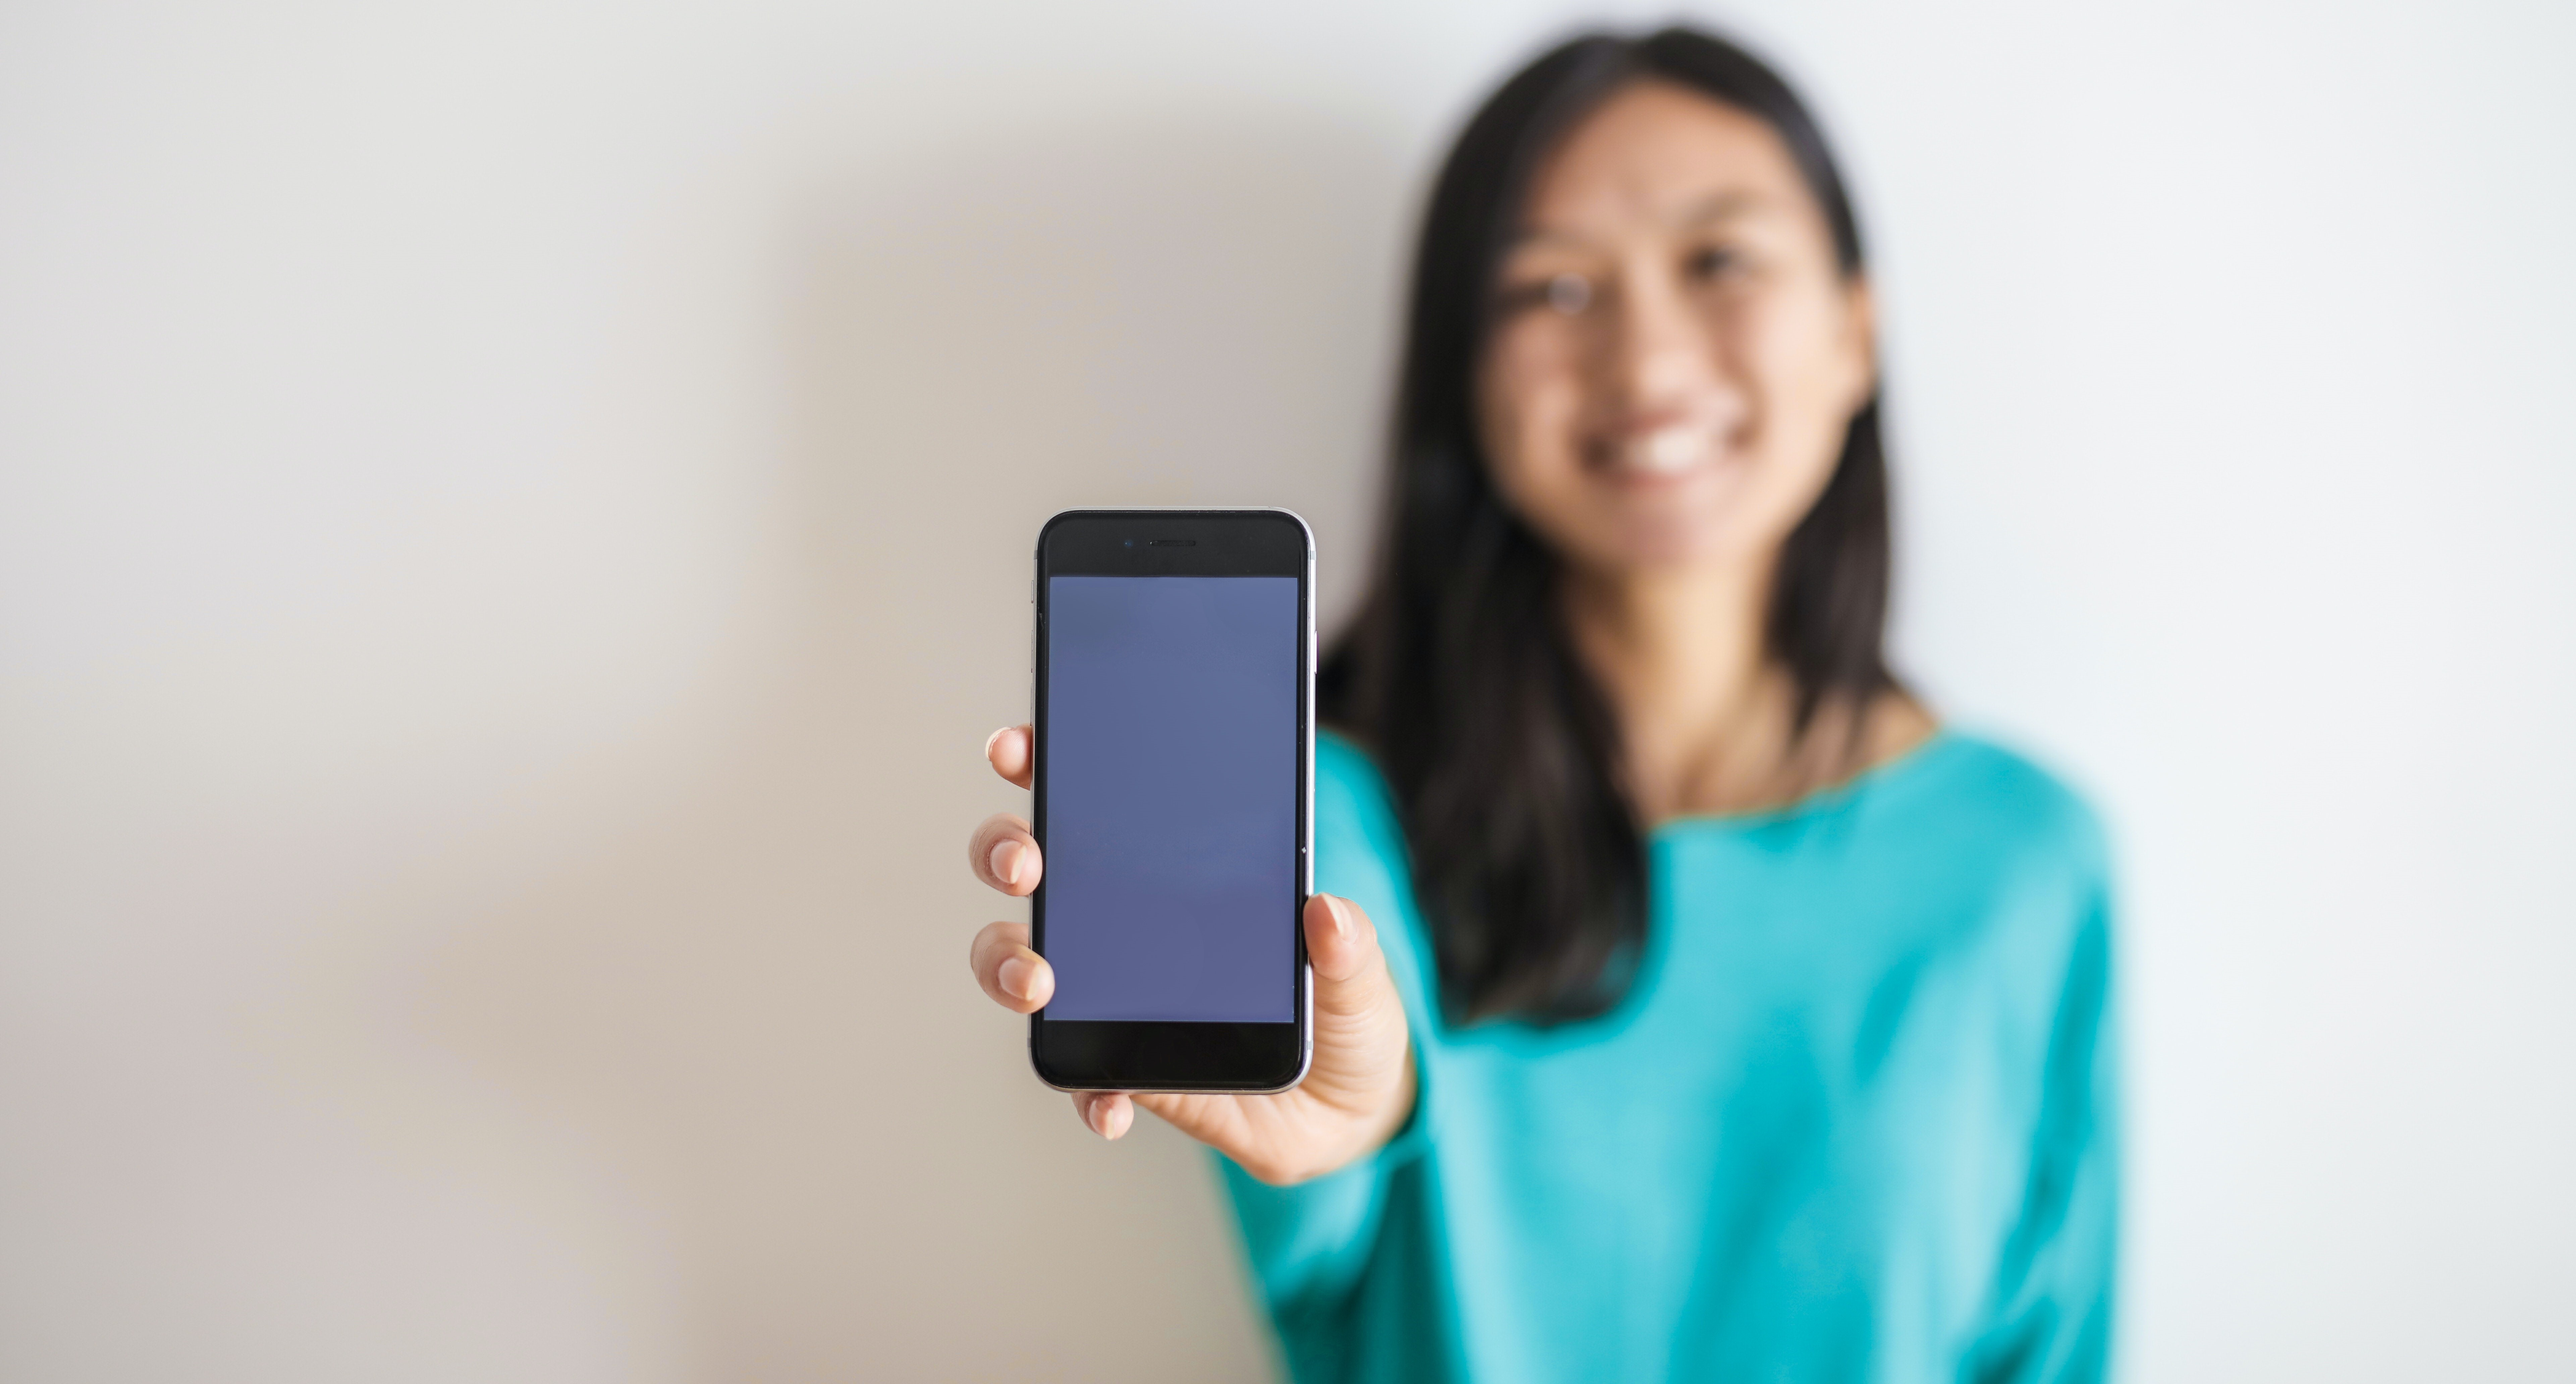
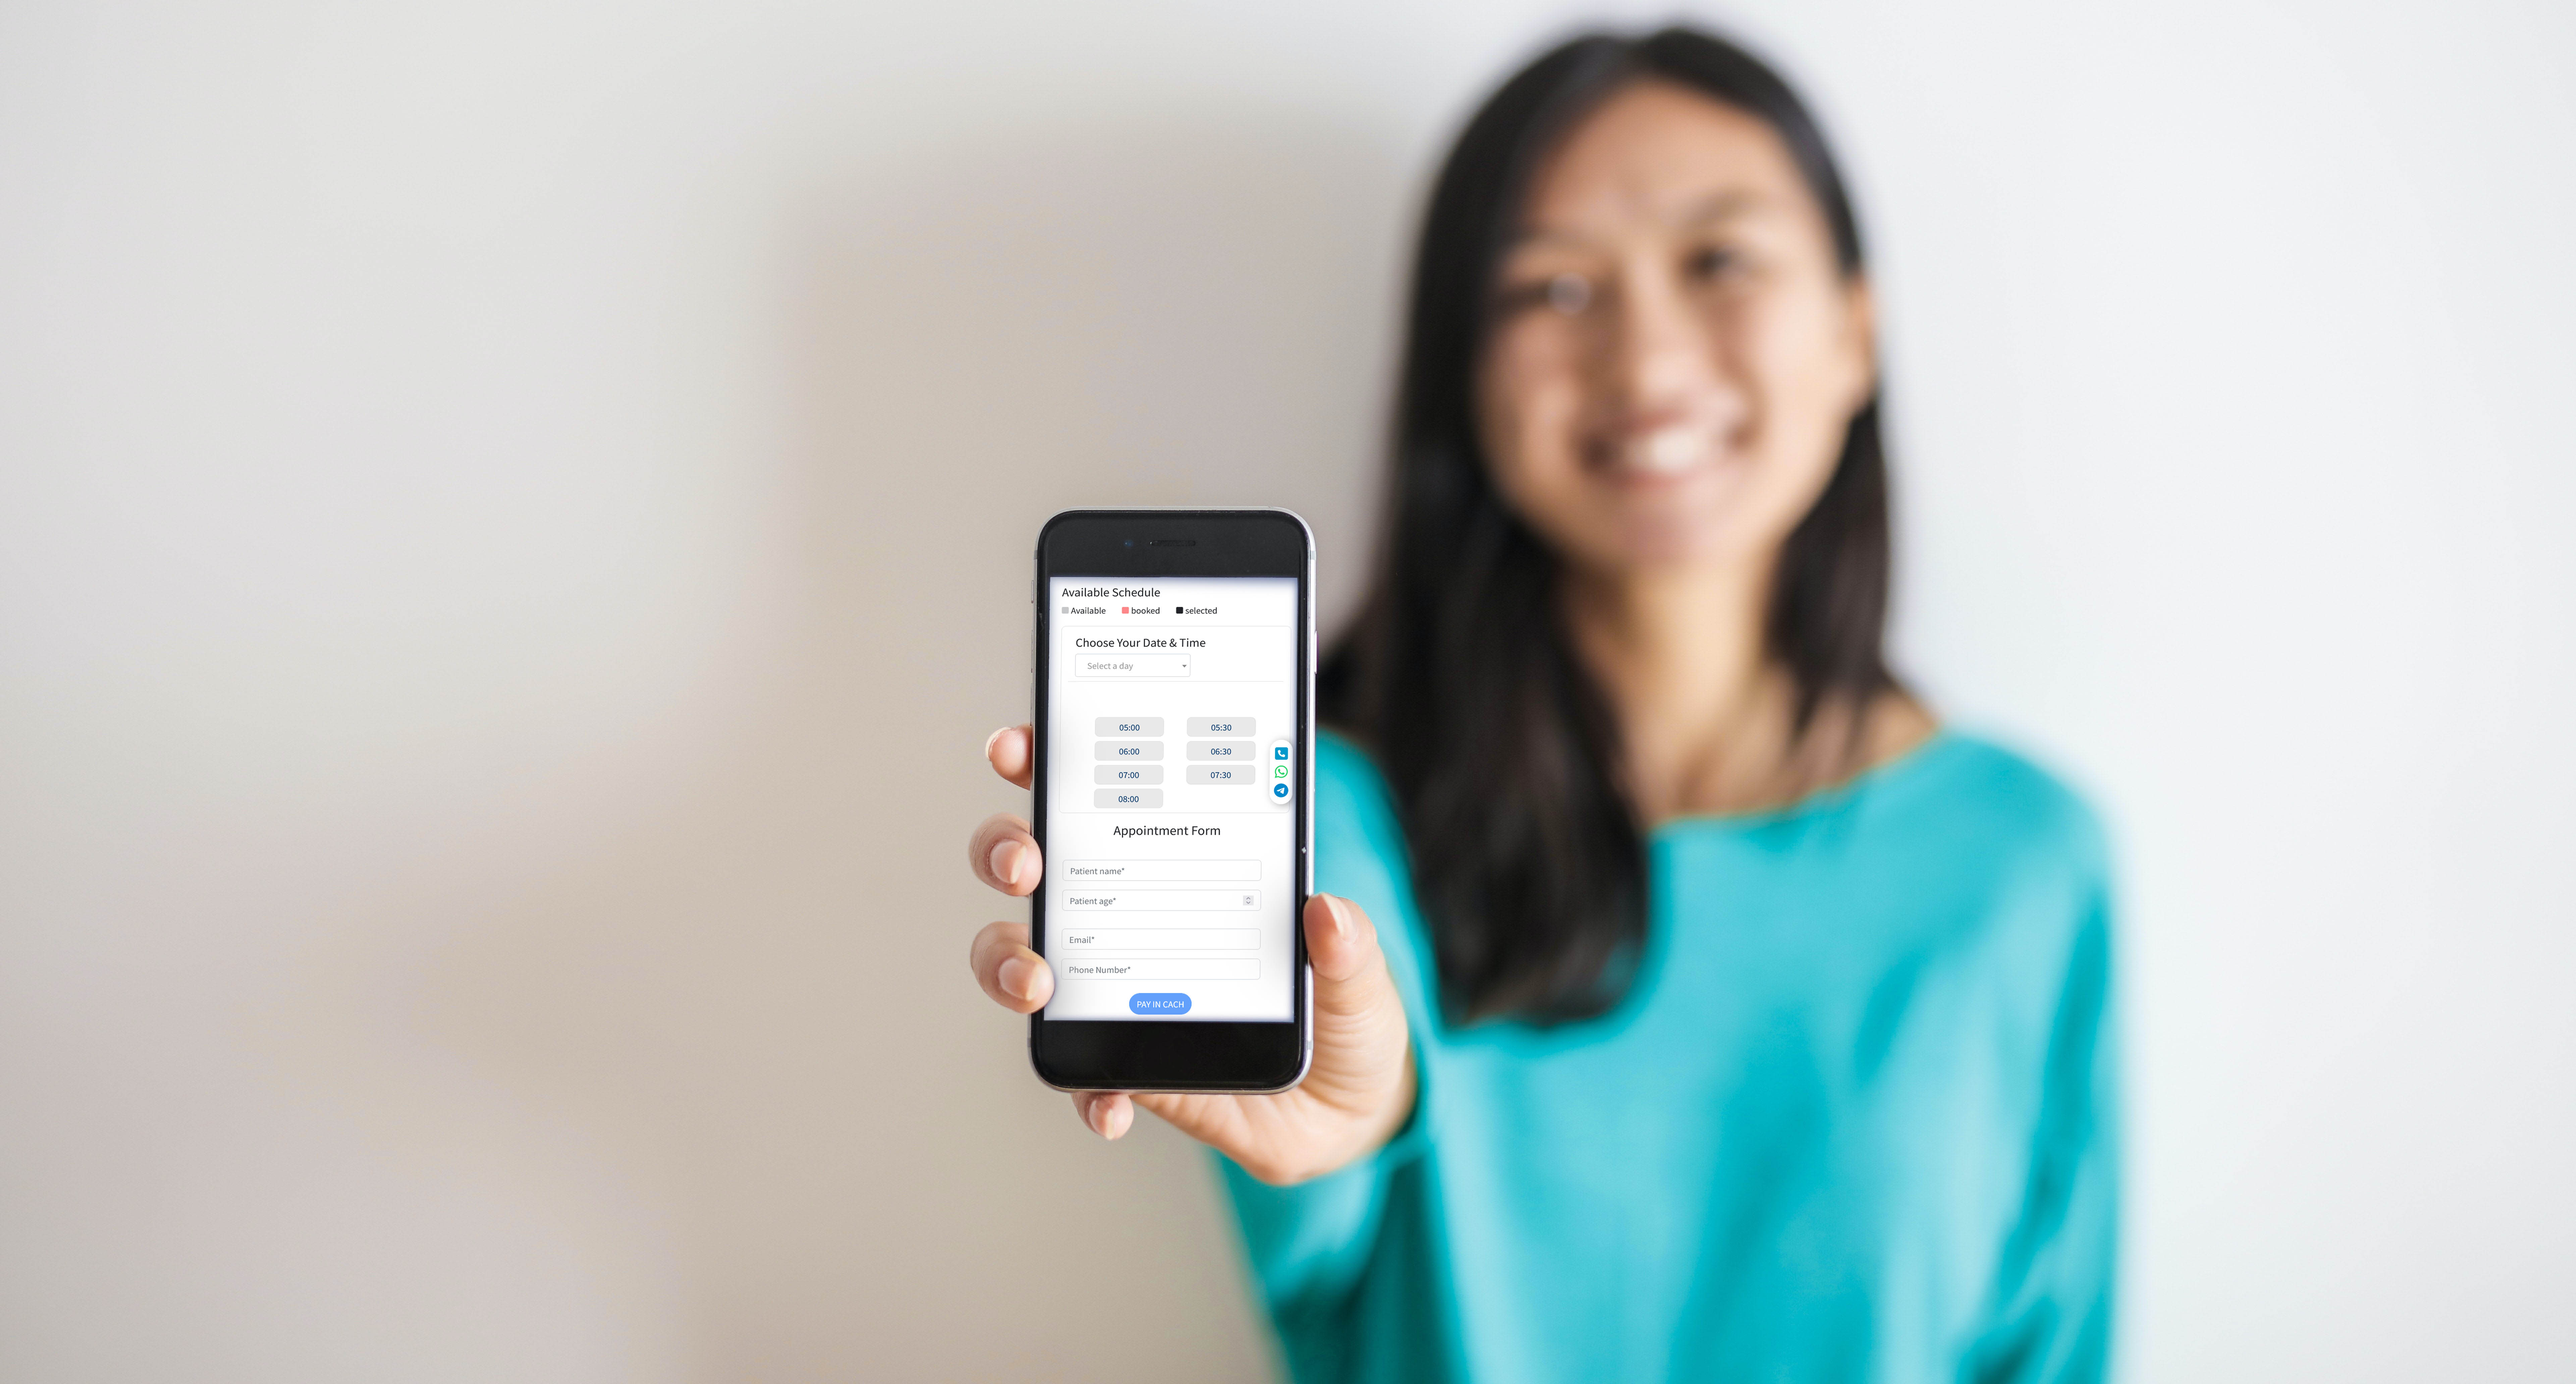
fix some bugs

Changed region(s): [[0.4062, 0.4062, 0.5312, 0.75]]

diff --git a/src/app/pages/Auth/components/register/register.component.ts b/src/app/pages/Auth/components/register/register.component.ts
@@ -147,14 +147,14 @@ termsConditions:TermCondition[]=[]
 
 
   initFormControl() {
-    this.username = new FormControl('', [Validators.required, Validators.minLength(3), Validators.pattern(/^[a-zA-Z]{1,}$/)]),
+    this.username = new FormControl('', [Validators.required, Validators.minLength(3), Validators.pattern(/^[a-zA-Z\s]{1,}$/)]),
       this.email = new FormControl('', [Validators.required, Validators.pattern(/^[a-zA-Z0-9]{2,}@[a-z]{2,}\.[a-zA-Z]{2,}$/)]),
       this.phoneNumber = new FormControl('', [Validators.required, Validators.pattern(/^\+?(002)?[\d\s()-]{4,}$/)]),
       this.password = new FormControl('', [Validators.required, Validators.pattern(/^(?=.*[A-Za-z])(?=.*\d)[A-Za-z\d]{8,}$/)]),
       this.confirmPassword = new FormControl('', Validators.required),
       this.date_of_birth = new FormControl('', Validators.required),
       this.gender = new FormControl('', Validators.required),
-      this.address = new FormControl('', [Validators.required, Validators.minLength(30)]),
+      this.address = new FormControl('', [Validators.required, Validators.minLength(5)]),
       this.blood_group = new FormControl('', Validators.required),
       this.terms_conditions =new FormControl('', Validators.required)
   }

diff --git a/src/app/pages/pharmacy/component/medicine-details/medicine-details.component.ts b/src/app/pages/pharmacy/component/medicine-details/medicine-details.component.ts
@@ -324,17 +324,16 @@ export class MedicineDetailsComponent implements OnInit {
   isDisableBtn:boolean = false;
   isVisibleAddSpinner:boolean = false;
 
+  // add medicine to cart when clicking button
   addCart(medicineId:number) {
-
-    if (localStorage.getItem("token") == null) {
+    if (localStorage.getItem("token") == null) { // in case that user isn't login
       this.toastr.info(!this.rtlDir?`You Should Login First!`:`يجب أن تسجل الدخول أولا!`)
     } else {
       this.isVisibleAddSpinner = true;
-      this._CartService.addCart(medicineId).subscribe({
+      this._CartService.addCart(medicineId).subscribe({ // calling API in Service
         next:(message)=>{
           if(message.success == true) {
-            this._CartService.calculateTotalQty();
-
+            this._CartService.calculateTotalQty(); // calculate cart medicines total quantity
             setTimeout(() => {
               this.isVisibleAddSpinner = false;
               this.toastr.success(!this.rtlDir?`This Medicine Added to Cart`:`تم اضافة الدواء الى عربة الشراء`, !this.rtlDir?`Cart Result`:`ناتج عربة الشراء`)

diff --git a/src/colors.scss b/src/colors.scss
@@ -1,6 +1,19 @@
 // Colors Variables
-$mainColor:#34B0DE;
-$mainColor2:linear-gradient(180deg, rgba(36,105,120,1) 0%, rgba(71,179,203,1) 100%);
+// $mainColor:#34B0DE;
+// $mainColor2:linear-gradient(180deg, rgba(36,105,120,1) 0%, rgba(71,179,203,1) 100%);
+// $mainColor3:linear-gradient(120deg, rgba(12, 249, 229, 0.7), rgba(90, 132, 235, 0.7));
+// $mainColor4:rgb(13, 260, 300);
+// $mainColor5:rgba(90, 132, 235, 1);
+// $mainColor6:#42A9C0;
+// $lightGreyColor:#EEF0F2;
+// $lightGrey2Color:#b9b9b9;
+// $whiteColor:white;
+// $text: rgba(36,105,120,1);
+
+// #2AA5DE
+// #067AC2
+$mainColor:rgb(52, 142, 199);
+$mainColor2:linear-gradient(180deg, rgba(13,134,207,1) 0%, rgb(118, 181, 230)100%);
 $mainColor3:linear-gradient(120deg, rgba(12, 249, 229, 0.7), rgba(90, 132, 235, 0.7));
 $mainColor4:rgb(13, 260, 300);
 $mainColor5:rgba(90, 132, 235, 1);
@@ -8,4 +21,4 @@ $mainColor6:#42A9C0;
 $lightGreyColor:#EEF0F2;
 $lightGrey2Color:#b9b9b9;
 $whiteColor:white;
-$text: rgba(36,105,120,1);
+$text: rgba(13,134,207,1);

diff --git a/src/app/pages/cart/component/checkout/checkout.component.ts b/src/app/pages/cart/component/checkout/checkout.component.ts
@@ -54,7 +54,7 @@ export class CheckoutComponent implements OnInit {
     this.checkoutForm = this._FormBuilder.group({
       first_name: ['' , [Validators.required, Validators.minLength(2), Validators.maxLength(20)]],
       last_name: ['' , [Validators.required, Validators.minLength(2), Validators.maxLength(20)]],
-      email: ['' , [Validators.required, Validators.email, Validators.pattern(/^[a-zA-Z0-9]{2,}@[a-z]{2,}\.[a-zA-Z]{2,}$/)]],
+      email: ['' , [Validators.required, Validators.email, Validators.pattern(/^[a-zA-Z0-9]{1,}.*[a-zA-Z0-9]{1,}@[a-z]{2,}\.[a-zA-Z]{2,}$/)]],
       phone1: ['' , [Validators.required, Validators.pattern(/^\+?(002)?[\d\s()-]{4,}$/)]], // may contains + or 002 or maynot
       phone2: ['' , Validators.pattern(/^\+?(002)?[\d\s()-]{4,}$/)],
       address1: ['' , Validators.required],

diff --git a/src/app/pages/appointments/component/appointments.component.html b/src/app/pages/appointments/component/appointments.component.html
@@ -165,9 +165,9 @@
             <div class="Date my-3 mx-4">
               <div class="row d-flex justify-content-between align-items-center border-bottom">
                 <h4 class="col-lg-9 col-sm-6">{{'appointmentPage.Choose_Your_Date_Time'| translate}}</h4>
-                <div class=" col-lg-3 col-sm-6">
+                <div class=" col-lg-3 col-sm-6 mb-2">
 
-                  <select class="form-select text-light w-90 mb-2 day-select2 " 
+                  <select class="form-select text-light mb-2 day-select2 " 
                     (change)="onDaySelect($event)">
                     <option selected disabled></option>
                     <!-- <option value=null selected> {{'appointmentPage.selectedDay'| translate}}</option> -->

diff --git a/src/app/layout/navbar/navbar.component.html b/src/app/layout/navbar/navbar.component.html
@@ -164,7 +164,7 @@
 
   <nav class="navbar navbar-expand-lg navbar-light bg-light">
     <div class="container">
-      <a class="navbar-brand" routerLink="/home"><img src="../../../assets/images/GP2.png" /></a>
+      <a class="navbar-brand" routerLink="/home"><img src="../../../assets/images/Artboard 26(1).png" /></a>
       <button class="navbar-toggler" type="button" data-bs-toggle="collapse" data-bs-target="#navbarSupportedContent"
         aria-controls="navbarSupportedContent" aria-expanded="false" aria-label="Toggle navigation">
         <span class="navbar-toggler-icon"></span>

diff --git a/src/app/pages/home/component/Home/home.component.scss b/src/app/pages/home/component/Home/home.component.scss
@@ -85,7 +85,8 @@
 
 
   .main-search {
-    background: linear-gradient(180deg, rgba(36,105,120,0.9) 0%, rgba(71,179,203,0.9) 100%);
+    // background: linear-gradient(180deg, rgba(36,105,120,0.9) 0%, rgba(71,179,203,0.9) 100%);
+    background: linear-gradient(180deg, rgba(12, 113, 176, 0.9) 0%, rgba(108, 164, 207, 0.9)100%);
     /* border-radius: 25px; */
     z-index: 50;
     bottom: 50px;

diff --git a/src/app/pages/specializations/service/specializations.service.ts b/src/app/pages/specializations/service/specializations.service.ts
@@ -8,6 +8,7 @@ import { environment } from 'src/environments/environment';
 })
 export class SpecializationService {
   _sharedApi: string = environment.apimain;
+  // https://benaahadees.com/mediBookiDashbord/public/api
   // _sharedApi: string = "http://127.0.0.1:8000/api";
   idspecialize = new BehaviorSubject<number>(0);
 

diff --git a/src/app/layout/fixed-items/fixed-items.component.scss b/src/app/layout/fixed-items/fixed-items.component.scss
@@ -92,7 +92,8 @@
     justify-content: center;
     align-items: center;
     border-radius: 50%;
-    background: #2A7687;
+    background: rgba(13,134,207,1);
+    // linear-gradient(180deg, rgba(13,134,207,1) 0%, rgba(132,202,255,1)100%)
     color: #fff;
 
     // background-color: #78bdcc;

diff --git a/src/app/pages/appointments/component/appointments.component.scss b/src/app/pages/appointments/component/appointments.component.scss
@@ -123,6 +123,10 @@ body {
   }
 }
 
+.day-select2 {
+  width: 70%;
+}
+
 
 /* ************************************************( Nav to booking and Overview style ) **************************** */
 @mixin active {
